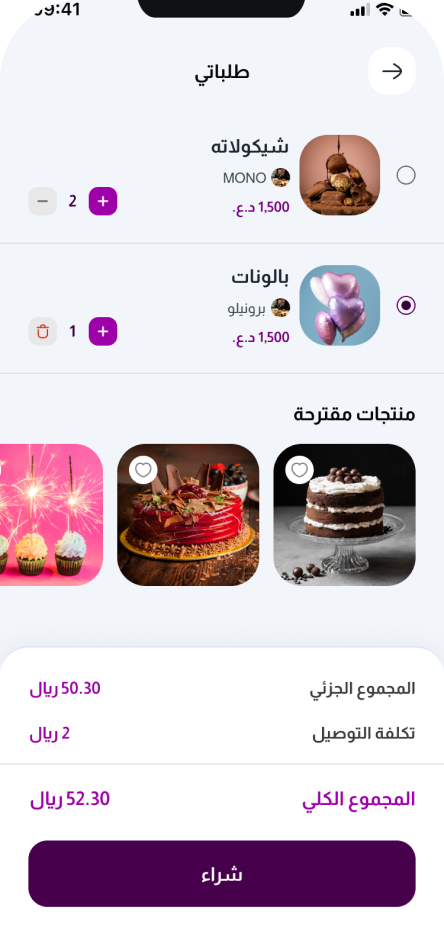
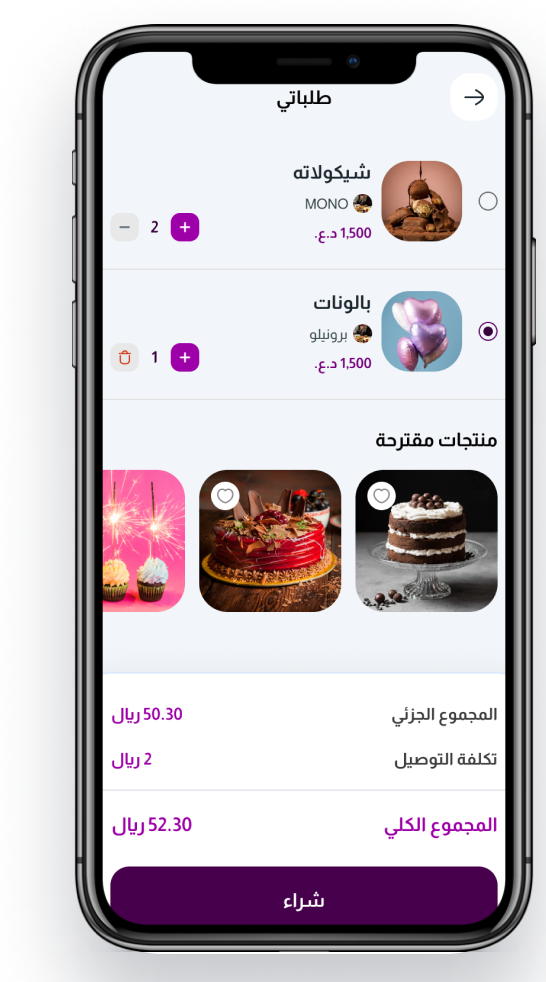
Add files via upload

diff --git a/desgin.css b/desgin.css
@@ -281,7 +281,7 @@ body {
     position: relative;
     width: 25vw;
     left: 50%;
-    top: -33vw;
+    top: -40vw;
 }
 
 .Mob2.arabic {
@@ -730,8 +730,8 @@ footer {
     }
     .Mob2.arabic{
         width: 60vw;
-        top: 9%;
-        right: -70px;
+        top: 5%;
+        right: -16px;
     }
     .faq-image{
         display: none;
@@ -954,14 +954,14 @@ footer {
         position: relative;
         width: 200px;
         height: 324px;
-        top: 20px;
+        top: 10px;
     }
     .Mob2 {
         position: relative;
         width: 200px;
         height: 324px;
-        top: 34px;
-        left:-50.25px;
+        top: 20px;
+        left:-32.25px;
     }
     .viewer .container{
         flex-direction: column;
